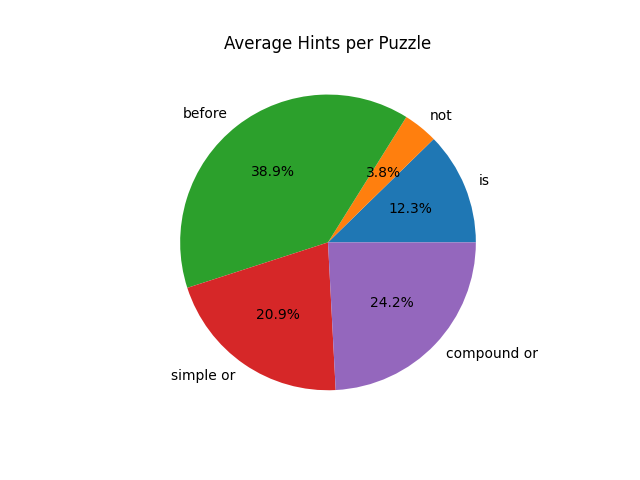
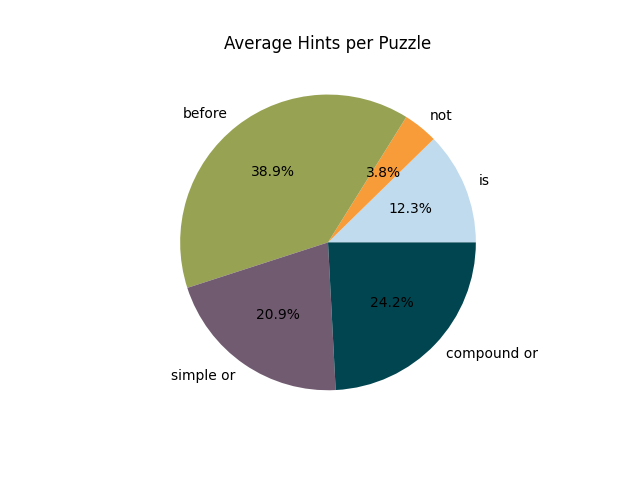
mini puzzles

Changed region(s): [[0.2812, 0.1875, 0.75, 0.8125]]

diff --git a/DataVisualization.py b/DataVisualization.py
@@ -4,6 +4,7 @@ import pickle
 from HintToEnglish import hint_to_english
 from Evolution import Category, Puzzle, apply_hints
 from LogicPuzzles import str_hint
+from colorPalette import COLOR1, COLOR5, COLORS
 
 # def plot_history(history, folder):
 #     plt.plot(history.num_feasible)
@@ -70,29 +71,28 @@ def plot_hint_type_averages(averages, folder):
         return hint_type.replace("_", " ")
     plt.clf()
     plt.title("Average Hints per Puzzle")
-    plt.pie(averages.values(), labels=list(map(var_to_english, averages.keys())), autopct='%1.1f%%')
+    plt.pie(averages.values(), labels=list(map(var_to_english, averages.keys())), autopct='%1.1f%%', colors=COLORS)
     plt.savefig(folder + '/hint_types_pie.png')
 
-def plot_type_vs_loops(loops, hint_pcts, folder):
-    def var_to_english(hint_type):
-        return hint_type.replace("_", " ")
-    colors = ['b', 'g', 'r', 'c', 'm']
-    plt.clf()
-    plt.title("Loops by Hint Type")
-    plt.xlabel("Percent Hint Type in Puzzle")
-    plt.ylabel("Number of Solver Loops")
-    i = 0
-    for hint_type, pcts in hint_pcts.items():
-        x = pcts
-        y = loops
-        z = np.polyfit(x, y, 1)
-        p = np.poly1d(z)
-        plt.plot(x, p(x), color=colors[i], label=var_to_english(hint_type))
-        plt.legend()
-        i += 1
+# def plot_type_vs_loops(loops, hint_pcts, folder):
+#     def var_to_english(hint_type):
+#         return hint_type.replace("_", " ")
+#     plt.clf()
+#     plt.title("Loops by Hint Type")
+#     plt.xlabel("Percent Hint Type in Puzzle")
+#     plt.ylabel("Number of Solver Loops")
+#     i = 0
+#     for hint_type, pcts in hint_pcts.items():
+#         x = pcts
+#         y = loops
+#         z = np.polyfit(x, y, 1)
+#         p = np.poly1d(z)
+#         plt.plot(x, p(x), color=COLORS[i], label=var_to_english(hint_type))
+#         plt.legend()
+#         i += 1
 
-    # plt.yticks(range(min(loops), max(loops)))
-    plt.savefig(folder + '/hint_types_vs_loops.png')
+#     # plt.yticks(range(min(loops), max(loops)))
+#     plt.savefig(folder + '/hint_types_vs_loops.png')
 
 def plot_types_over_solve_time(hint_type_loops, folder):
     def var_to_english(hint_type):
@@ -107,8 +107,10 @@ def plot_types_over_solve_time(hint_type_loops, folder):
         labels.append(str(l+1))
 
     bottom = np.zeros(max_loops)
+    c = 0
     for hint_type, loops in hint_type_loops.items():
-        ax.bar(labels, loops, bottom=bottom, label=var_to_english(hint_type))
+        ax.bar(labels, loops, bottom=bottom, label=var_to_english(hint_type), color=COLORS[c])
+        c += 1
         bottom += loops
 
     ax.set_title("Hint types used by each solve loop")
@@ -118,29 +120,29 @@ def plot_types_over_solve_time(hint_type_loops, folder):
 
     plt.savefig(folder + '/types_over_solve_time.png')
 
-def plot_numeric_hint_types(total_counts, numeric_counts, folder):
-    def var_to_english(hint_type):
-        return hint_type.replace("_", " ")
-    plt.clf()
+# def plot_numeric_hint_types(total_counts, numeric_counts, folder):
+#     def var_to_english(hint_type):
+#         return hint_type.replace("_", " ")
+#     plt.clf()
 
-    _, ax = plt.subplots()
+#     _, ax = plt.subplots()
 
-    labels = list(total_counts.keys())
+#     labels = list(total_counts.keys())
 
-    totals = np.array(list(total_counts.values()))
-    numerics = np.array(list(numeric_counts.values()))
-    non_numerics = totals - numerics 
+#     totals = np.array(list(total_counts.values()))
+#     numerics = np.array(list(numeric_counts.values()))
+#     non_numerics = totals - numerics 
 
-    bottom = np.zeros(len(labels))
-    ax.bar(labels, non_numerics, bottom=bottom, label="non-numeric")
+#     bottom = np.zeros(len(labels))
+#     ax.bar(labels, non_numerics, bottom=bottom, label="non-numeric", color=COLOR1)
 
-    bottom += non_numerics
-    ax.bar(labels, numerics, bottom=bottom, label="numeric")
+#     bottom += non_numerics
+#     ax.bar(labels, numerics, bottom=bottom, label="numeric", color=COLOR5)
 
-    ax.set_title("Ratio of Numeric to Non-Numeric Hints")
-    ax.legend()
+#     ax.set_title("Ratio of Numeric to Non-Numeric Hints")
+#     ax.legend()
 
-    plt.savefig(folder + '/numeric_hint_types.png')
+#     plt.savefig(folder + '/numeric_hint_types.png')
 
 def first_feasible(histories): 
     num_feasible = [history.num_feasible for history in histories]
@@ -321,7 +323,7 @@ def process_folder(experiement_folder, num_trials):
         hint_type_averages[key] = key_avg
         data_file.write("\n\t{}:{}".format(key, key_avg))
     plot_hint_type_averages(hint_type_averages, experiement_folder)
-    plot_type_vs_loops(per_puzzle_loops, per_puzzle_pcts, experiement_folder)
+    # plot_type_vs_loops(per_puzzle_loops, per_puzzle_pcts, experiement_folder)
 
     data_file.write("\n\nPercent Numeric")
     count_numeric_overall = sum(numeric_counts.values())
@@ -331,7 +333,7 @@ def process_folder(experiement_folder, num_trials):
         numeric_pct = numeric_counts[key]/total_counts[key]
         data_file.write("\n\t{}:{}".format(key, numeric_pct))
 
-    plot_numeric_hint_types(total_counts, numeric_counts, experiement_folder)
+    # plot_numeric_hint_types(total_counts, numeric_counts, experiement_folder)
 
     for kind in hint_type_loops.keys():
         while len(hint_type_loops[kind]) < max(per_puzzle_loops):
@@ -355,6 +357,6 @@ def process_folder(experiement_folder, num_trials):
     
 
 if __name__ == "__main__":
-    process_folder("ExperimentsKaylah5", 30)
-    process_folder("ExperimentsKaylah6", 30)
-    process_folder("ExperimentsKaylah8", 30)
+    # process_folder("ExperimentsKaylah5", 30)
+    # process_folder("ExperimentsKaylah8", 30)
+    process_folder("ExperimentsKaylah9", 5)

diff --git a/Experiements.py b/Experiements.py
@@ -1,6 +1,6 @@
-folder = "ExperimentsKaylah8"
-num_trials = 30 
-gen_len = 2000 
+folder = "ExperimentsKaylah9"
+num_trials = 5 
+gen_len = 100 
 pop_size = 50 
 mut_rate = 0.8 
 x_rate = 0.3 
@@ -14,12 +14,17 @@ import pickle
 
 for trial in range(num_trials):
     print("Running trial: {}".format(trial))
-    suspects = Category("suspect", ["Ms. carlet", "Mrs. White", "Col. Mustard", "Prof. Plum"], False)
-    weapons = Category("weapon", ["Knife", "Rope", "Candle Stick", "Wrench"], False)
-    rooms = Category("room", ["Ball room", "Living Room", "Kitchen", "Study"], False)
-    time = Category("hour", ["1:00 PM", "2:00 PM", "3:00 PM", "4:00 PM"], True)
+    # suspects = Category("suspect", ["Ms. carlet", "Mrs. White", "Col. Mustard", "Prof. Plum"], False)
+    # weapons = Category("weapon", ["Knife", "Rope", "Candle Stick", "Wrench"], False)
+    # rooms = Category("room", ["Ball room", "Living Room", "Kitchen", "Study"], False)
+    # time = Category("hour", ["1:00 PM", "2:00 PM", "3:00 PM", "4:00 PM"], True)
+    # puzzle = Puzzle([suspects, weapons, rooms, time]) 
 
-    puzzle = Puzzle([suspects, weapons, rooms, time]) 
+    # Mini puzzle
+    suspects = Category("suspect", ["Mrs. White", "Col. Mustard", "Prof. Plum"], False)
+    weapons = Category("weapon", ["Rope", "Candle Stick", "Wrench"], False)
+    time = Category("hour", ["2:00 PM", "3:00 PM", "4:00 PM"], True)
+    puzzle = Puzzle([suspects, weapons, time]) 
 
     pop = evolve(puzzle, gen_len,pop_size, x_rate, mut_rate, add_rate, elits) 
 

diff --git a/colorPalette.py b/colorPalette.py
@@ -4,6 +4,7 @@ COLOR2 = "#F89C3A"
 COLOR3 = "#98A253"
 COLOR4 = "#715B70"
 COLOR5 = "#014550"
+COLORS = [COLOR1, COLOR2, COLOR3, COLOR4, COLOR5]
 
 LINE1 = "solid"
 LINE2 = "dashed"

diff --git a/ExperimentsKaylah9/README.md b/ExperimentsKaylah9/README.md
@@ -1,0 +1,4 @@
+#gens 100
+#trials 5
+Size and loops
+3x3 instead of 4x4
